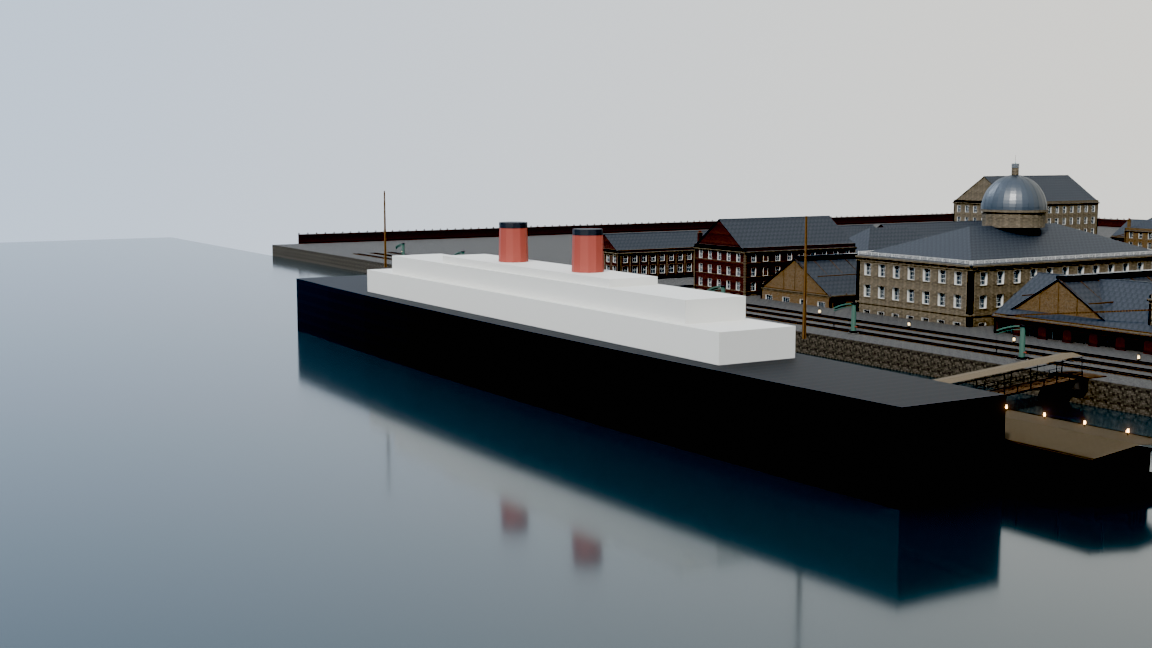
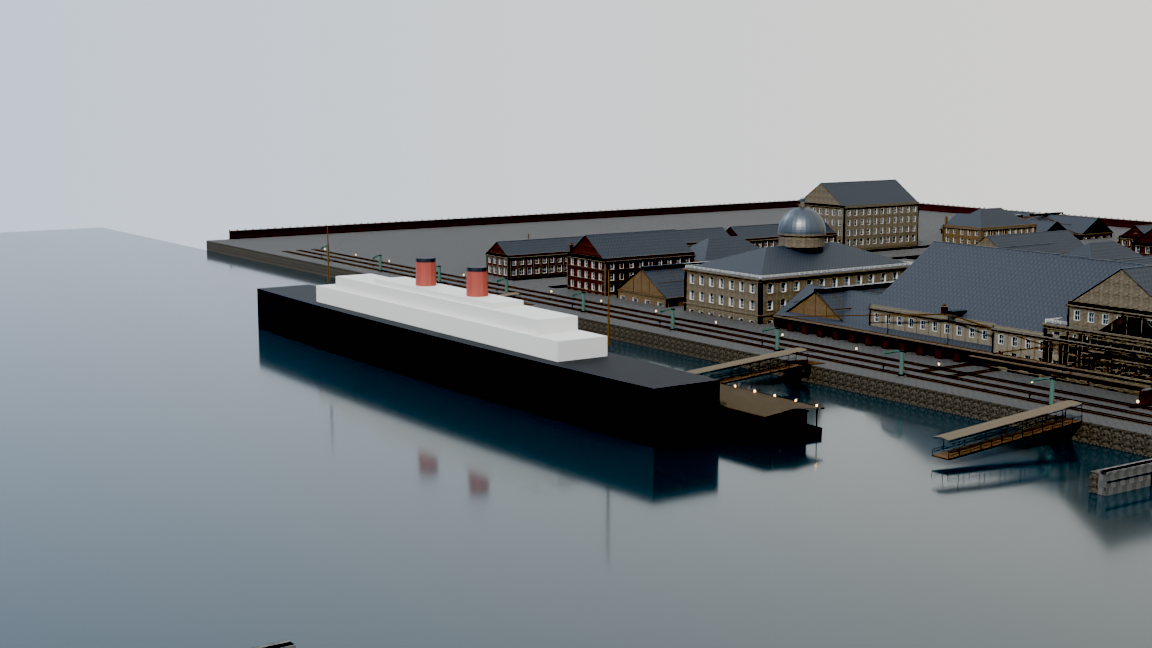
Re-aim the waterfront view: pull back so the landing stage reads as a pontoon in the harbour rather than filling the frame

diff --git a/blender/build_ports.py b/blender/build_ports.py
@@ -39,7 +39,7 @@ CAMERAS = {
         # Positions were checked against the layout: every camera stands in open
         # ground or over water, never inside a building.
         ("01_aerial",        (-250, -330, 210), (90, 40, 0), 40),
-        ("02_waterfront",    (-206, -70, 38),   (-60, 170, 4), 45),
+        ("02_waterfront",    (-275, -190, 66),  (-30, 165, 2), 50),
         ("03_street",        (-14, 60, 6.5),    (-14, 230, 10), 40),
         ("04_dockside",      (-16, -30, 7.5),   (70, -70, 8), 42),
         ("05_landing_stage", (-196, -20, 22),   (-84, 140, 4), 42),
